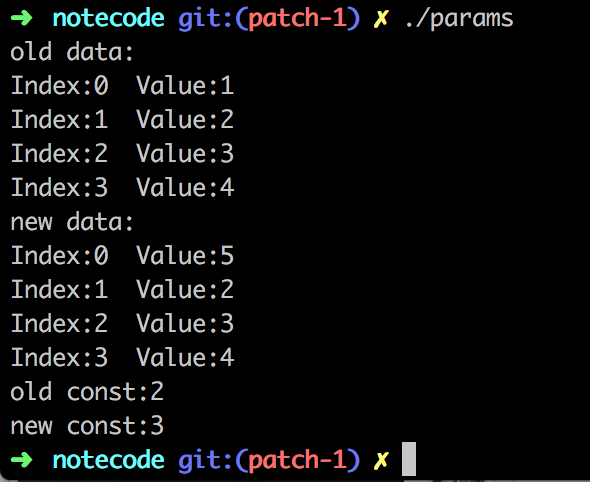
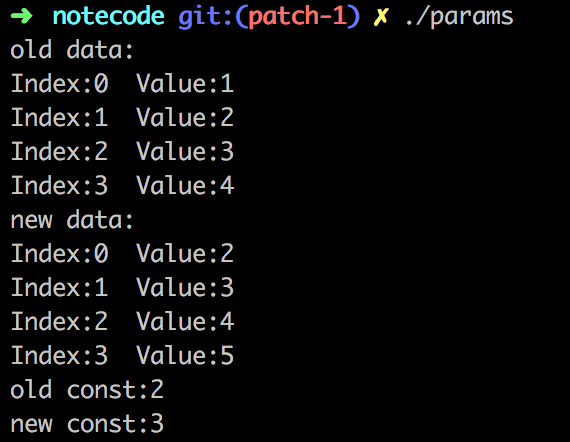
fix code

Changed region(s): [[0.0, 0.0882, 1.0, 1.0], [0.0895, 0.0, 0.8947, 0.0882], [0.0298, 0.0, 0.0596, 0.0588]]

diff --git a/cpp/base/notecode/params.cpp b/cpp/base/notecode/params.cpp
@@ -6,7 +6,8 @@ void Fun(int a[],int b)
 {
       for(int i=0; i < b; i++)
       {
-            (*a)++;
+		(*a)++;
+		a++;
 	}
 }
 
